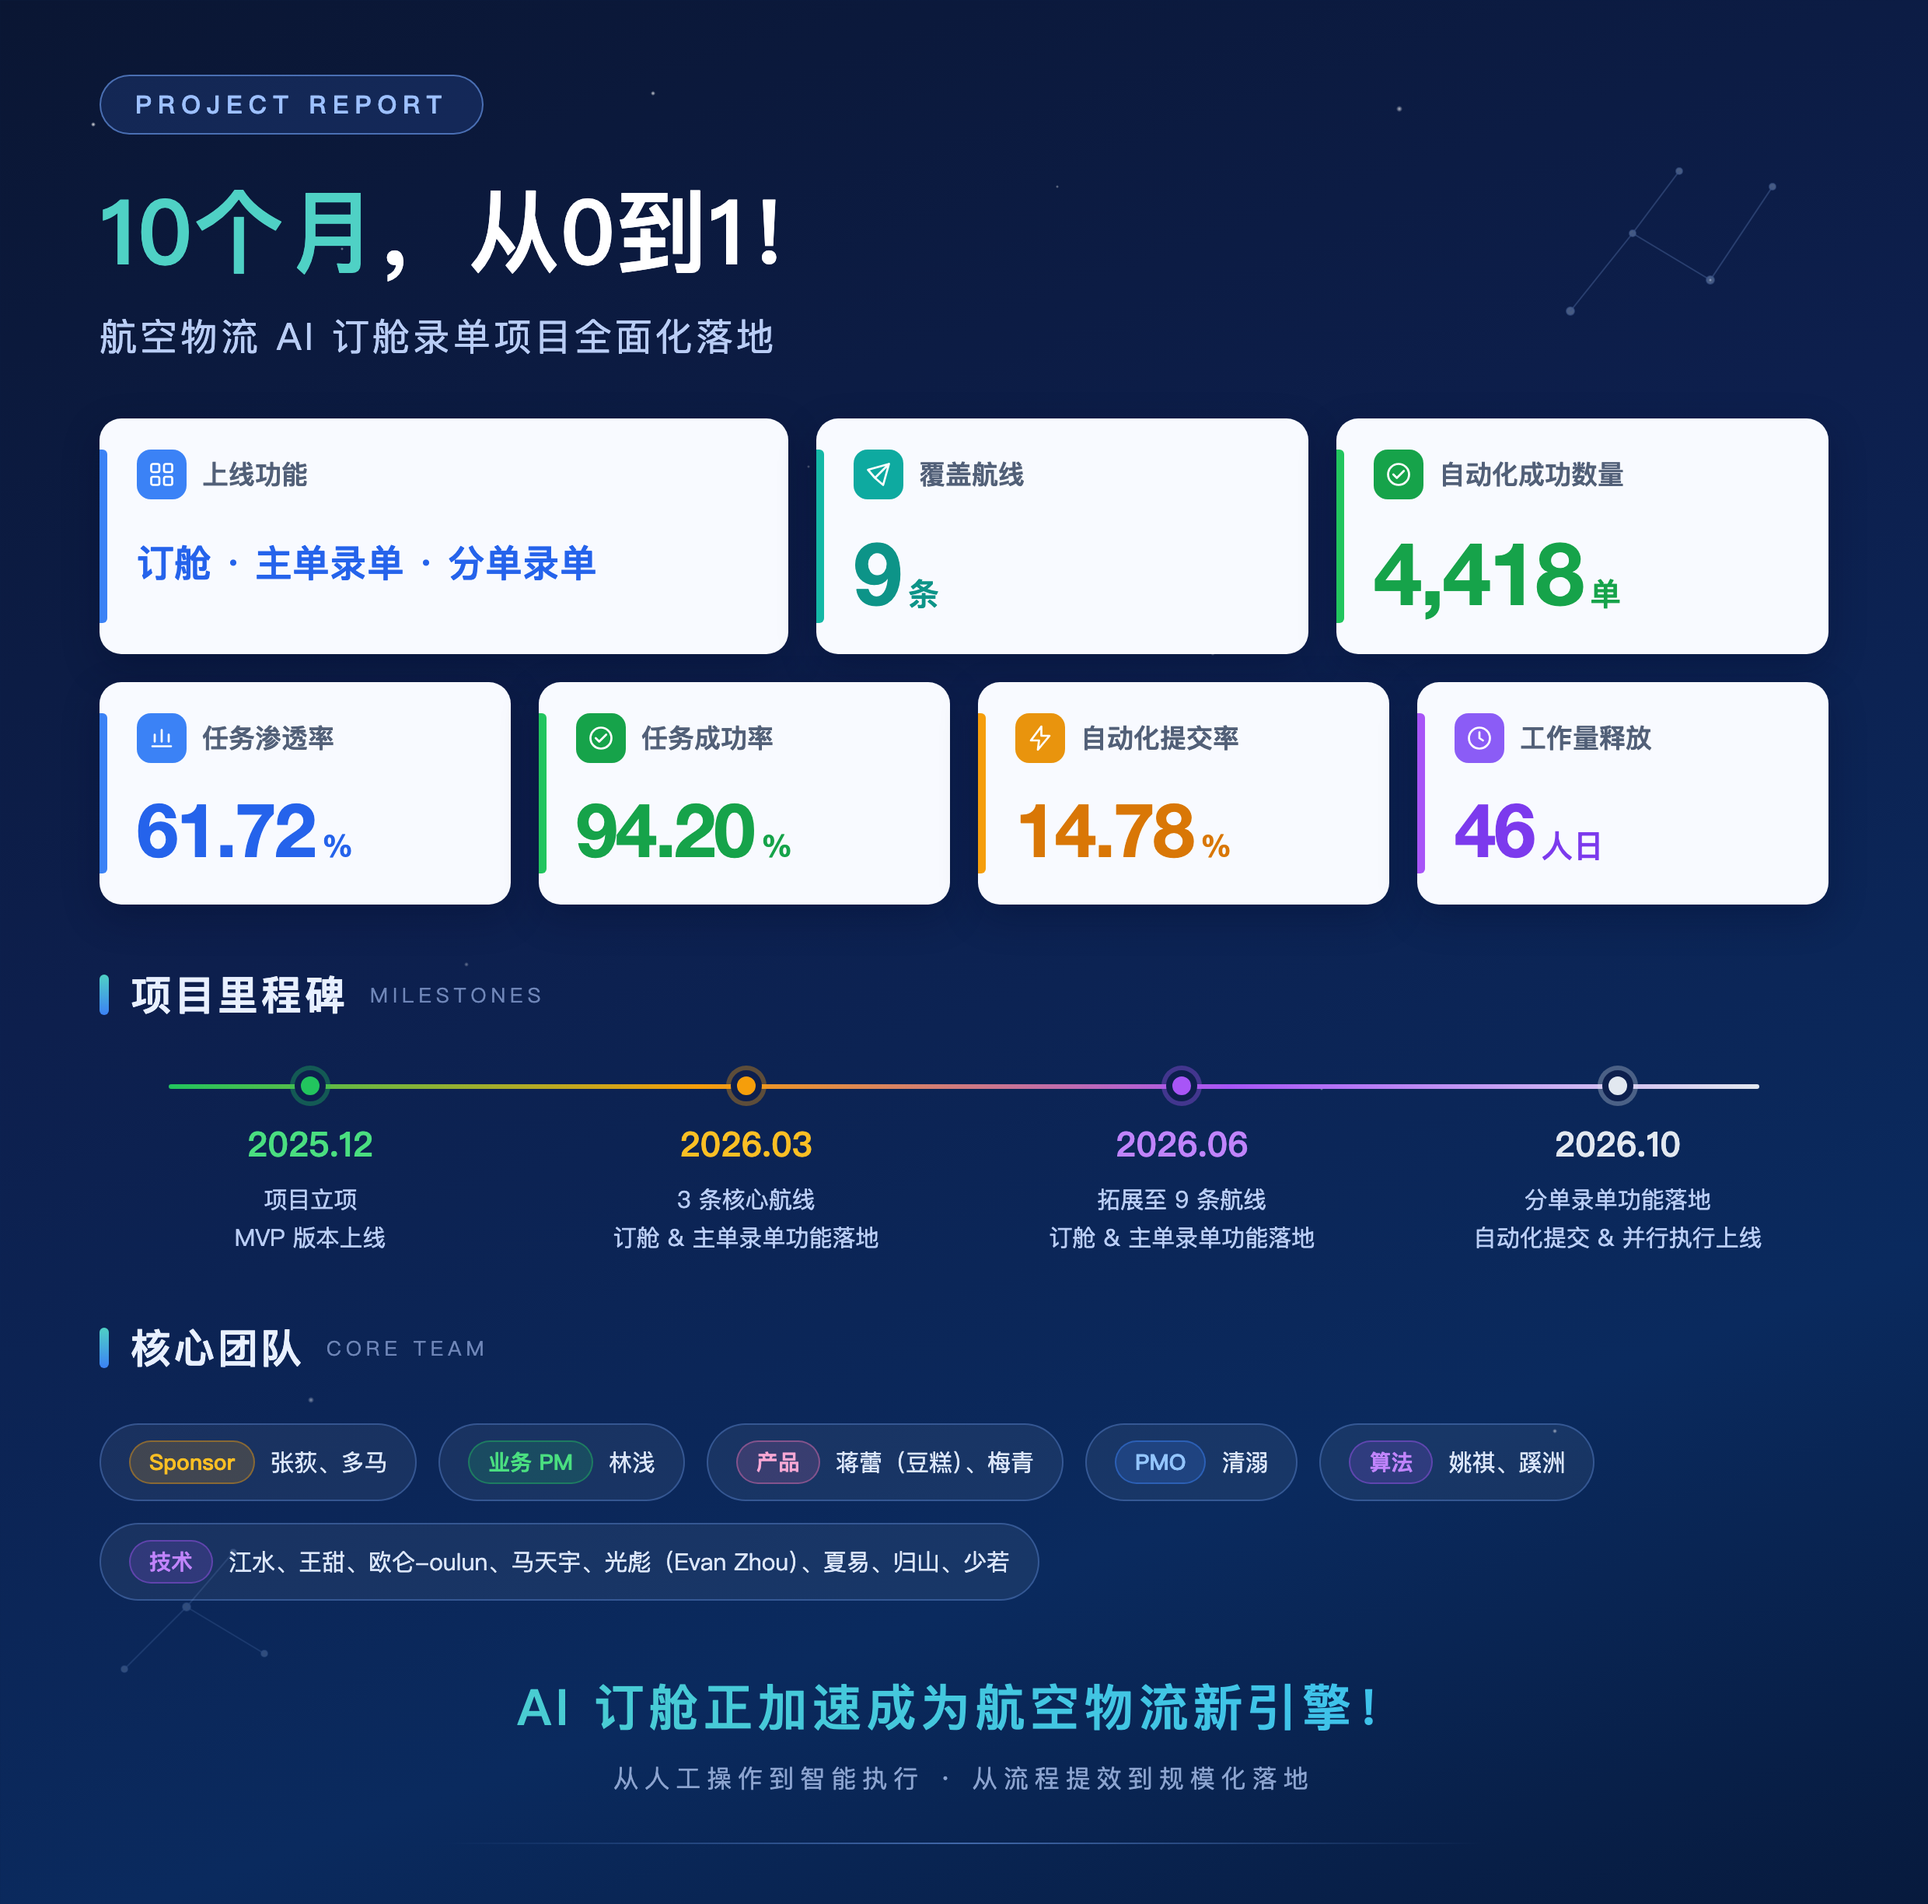
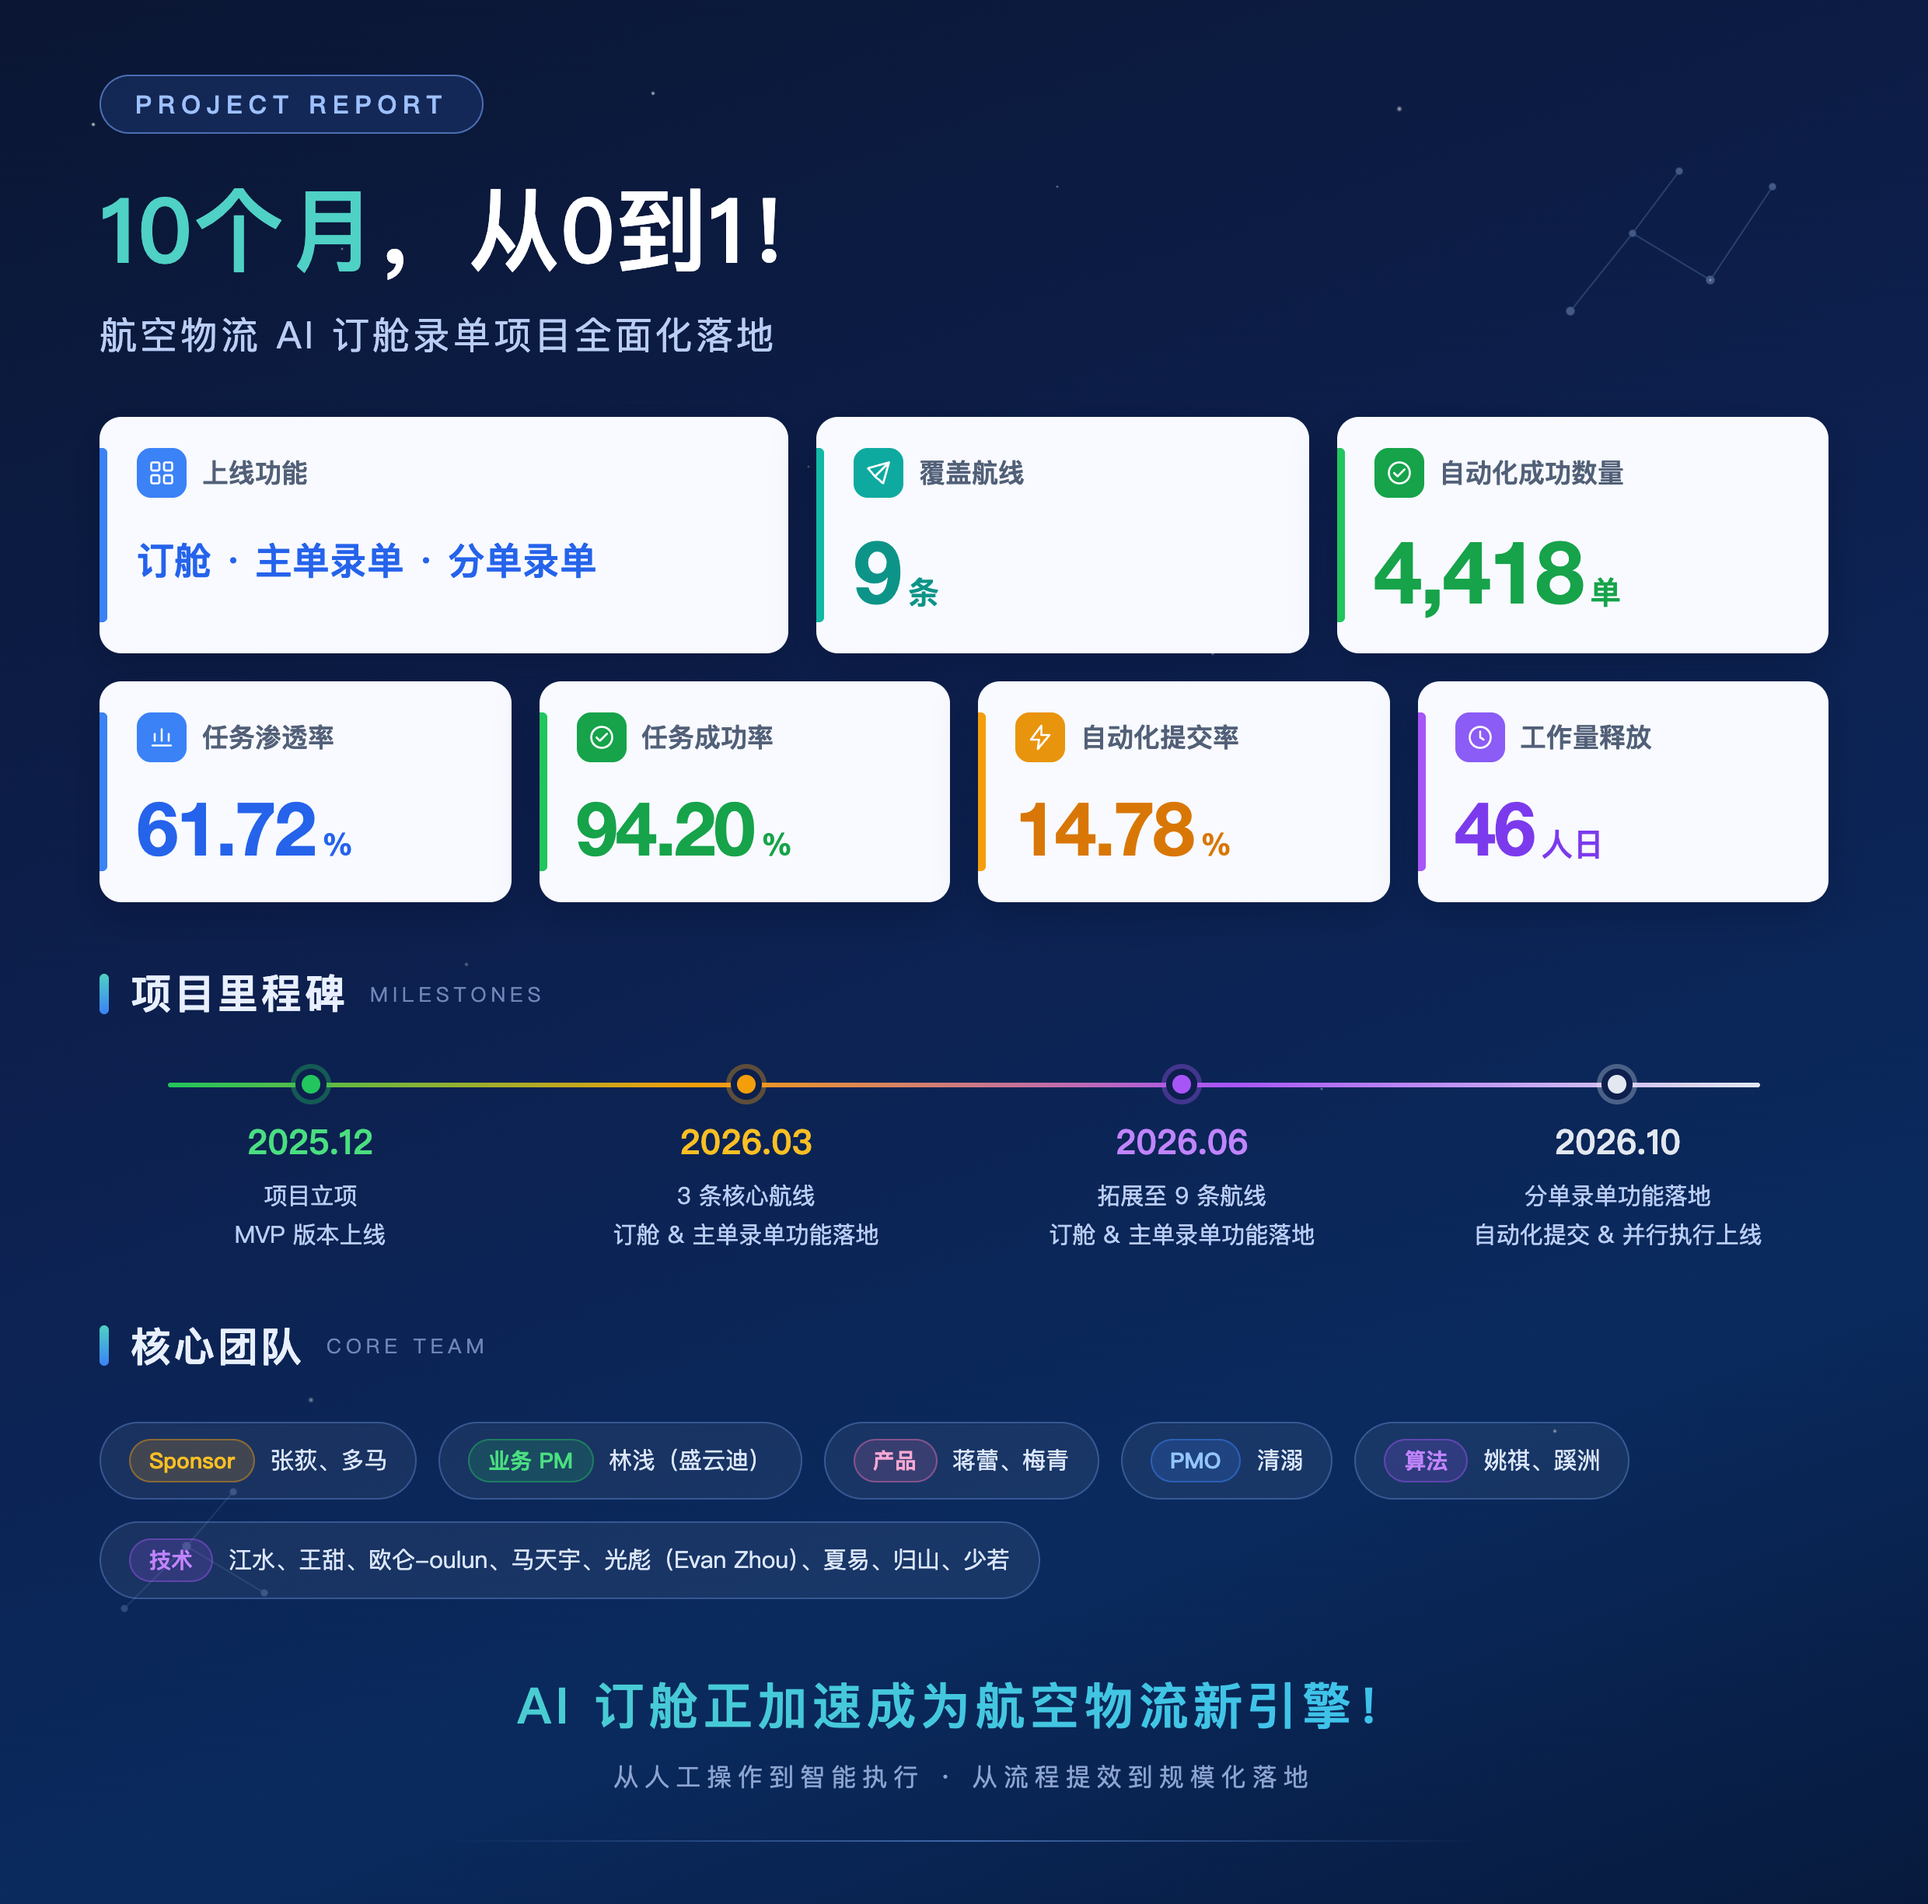
调整产品介绍阅读顺序并同步海报署名，完善规模化成果展示

diff --git a/index.html b/index.html
@@ -36,6 +36,7 @@
 .hero .eyebrow{font-family:"SFMono-Regular",Consolas,"PingFang SC",sans-serif;font-size:11px;letter-spacing:1px;font-weight:500}.hero-copy,.process-overview{min-width:0}.intro-block+.intro-block{margin-top:19px}.intro-block h2{font-size:13px;color:var(--ink);font-weight:650;margin:0 0 7px}.intro-block .lead{font-size:14px;line-height:1.9}.process-overview{padding:24px 22px 16px;border:1px solid var(--line);border-radius:14px;background:#f4f8fd;box-shadow:0 12px 30px #10284d06}.process-kicker{font:10px "SFMono-Regular",Consolas,monospace;letter-spacing:1px;color:var(--cyan)}.process-heading h2{font-size:21px;letter-spacing:-.4px;line-height:1.5;margin:10px 0 7px}.process-heading p{font-size:12px;line-height:1.8;color:var(--muted);margin:0}.process-stages{display:flex;align-items:center;justify-content:space-between;gap:3px;margin:20px 0 16px;font-size:11px;white-space:nowrap}.process-stages span{padding:7px 4px;border-radius:5px;color:var(--muted)}.process-stages span.active{background:#e1ecff;color:var(--blue);font-weight:650}.process-stages b{font-weight:400;color:#8aabc9}.process-image-button{display:block;width:100%;padding:0;border:1px solid var(--line);border-radius:8px;overflow:hidden;background:#fff;text-align:left;color:var(--blue)}.process-image-button img{display:block;width:100%;height:auto}.process-image-caption{display:flex;align-items:center;justify-content:space-between;gap:12px;padding:12px;font-size:10px;line-height:1.7;border-top:1px solid #e6edf7;background:#fafdff}.process-image-caption i{display:inline-block;width:6px;height:6px;border-radius:50%;background:var(--blue);margin-right:6px}.process-dialog{width:1360px;max-width:94vw}.process-dialog .dialog-head{gap:16px;flex-wrap:wrap}.process-dialog-actions{display:flex;gap:8px}.process-dialog-scroll{max-height:72vh;overflow:auto;overscroll-behavior:contain;padding:14px;background:#f8fbff}.process-dialog-scroll img{width:100%;max-width:none;height:auto}.process-dialog-scroll.detail-view img{width:1600px}.process-dialog-note{font-size:11px;line-height:1.8;color:var(--muted);padding:10px 18px;margin:0;border-top:1px solid var(--line)}.process-dialog-note a{color:var(--blue)}
 @media(max-width:800px){.intro-block .lead{max-width:680px}.process-overview{padding:24px}.process-stages{justify-content:flex-start;gap:14px;font-size:12px}.process-stages span{padding:8px 10px}.process-heading h2{font-size:22px}}
 @media(max-width:480px){.hero .eyebrow{font-size:10px;letter-spacing:.6px}.intro-block .lead{font-size:13px}.intro-block h2{font-size:12px}.process-overview{padding:20px 14px 14px}.process-heading h2{font-size:18px}.process-heading p{font-size:11px}.process-stages{justify-content:space-between;gap:2px;font-size:10px;margin:17px 0 13px}.process-stages span{padding:7px 3px}.process-image-caption{font-size:9px;padding:10px 8px;gap:5px}.process-dialog .dialog-head{font-size:12px;padding:10px 12px;gap:9px}.process-dialog-note{font-size:10px;padding:10px 12px}.process-dialog-scroll{padding:8px}}
+@media(max-width:360px){.process-stages{gap:1px}.team-entry:not(.sponsor):not(.technical){padding-inline:10px}}
 @media(prefers-reduced-motion:reduce){html{scroll-behavior:auto}*{transition:none!important}}
 </style>
 </head>
@@ -57,6 +58,11 @@
 <div class="video-caption"><span>文件上传、AI 识别、任务管理与执行，全流程实录。</span><span>产品展示页面，不提供业务系统登录或实际订舱服务。</span></div>
 <p class="demo-data-note" id="demo-data-note"><svg viewBox="0 0 24 24" fill="none" stroke="currentColor" stroke-width="1.6" aria-hidden="true"><path d="m12 3 8 3v6c0 5-8 9-8 9s-8-4-8-9V6l8-3Z"/><path d="m8 12 3 3 5-6"/></svg><span><strong>演示数据说明</strong>：视频中的展示数据为脱敏后的模拟数据，仅用于 Demo 演示，不代表真实客户信息或实际业务交易。</span></p>
 </section>
+<section id="product" class="section" aria-labelledby="product-title">
+<div class="section-heading"><div><h2 id="product-title">产品介绍</h2><p>三项核心功能，覆盖订舱与主分单录入。</p></div></div>
+<div class="feature-grid"><article class="feature-item"><h3>智能订舱</h3><p>上传订舱表，AI 提取字段并执行订舱。</p></article><article class="feature-item"><h3>主单录单</h3><p>解析主单文件，校验后自动录入航司系统。</p></article><article class="feature-item"><h3>分单录单</h3><p>识别分单与舱单，关联主单并批量录入。</p></article></div>
+<div class="solution-overview"><div class="solution-heading"><h3>Agent 工作流</h3><div class="solution-chain" aria-label="任务处理流程"><span>人工上传文件</span><b aria-hidden="true">→</b><span>AI 解析校验</span><b aria-hidden="true">→</b><span>自动录入</span><b aria-hidden="true">→</b><span>人工处理异常</span></div></div><div class="solution-capabilities"><article><h4>批量并行 · 多航线路由</h4><p>并行执行批量任务，自动匹配多航线处理流程。</p></article><article><h4>全托管提交 · 异常校验提醒</h4><p>支持自动提交全托管，信息校验异常及时提醒。</p></article><article><h4>历史文件回溯 · 航线规则配置</h4><p>回溯历史上传文件，快捷配置航线解析与校验规则。</p></article></div></div>
+</section>
 <section id="background" class="section value-section" aria-labelledby="background-title">
 <div class="section-heading"><div><h2 id="background-title">产品价值总结</h2><p>解决航空货代的共性痛点，让自动化能力可复用、可扩展、可推广。</p></div></div>
 <div class="value-comparisons" aria-label="行业痛点与产品价值对照">
@@ -67,13 +73,8 @@
 </div>
 <aside class="commercial-value" aria-labelledby="commercial-title"><div class="commercial-heading"><span class="commercial-kicker">行业推广与产品化</span><h3 id="commercial-title">面向行业，<br>具备商业化潜力</h3><p>不只是服务一家企业，<br>而是形成可复制推广的行业解决方案。</p></div><div class="commercial-copy"><p class="commercial-thesis">订舱与录单不是某一家公司的特有需求，而是众多空运货代共同承担的基础工作。共性的业务链路，让产品具备向同类企业复制推广的适用基础。</p><p>通过复用共性处理能力、配置航线差异，扩展不必从零重建全部流程。经目标航司系统与企业流程适配验证后，可向更多航空货代公司复制推广，进一步封装为可对外售卖的产品化解决方案。</p></div></aside>
 </section>
-<section id="product" class="section" aria-labelledby="product-title">
-<div class="section-heading"><div><h2 id="product-title">产品介绍</h2><p>三项核心功能，覆盖订舱与主分单录入。</p></div></div>
-<div class="feature-grid"><article class="feature-item"><h3>智能订舱</h3><p>上传订舱表，AI 提取字段并执行订舱。</p></article><article class="feature-item"><h3>主单录单</h3><p>解析主单文件，校验后自动录入航司系统。</p></article><article class="feature-item"><h3>分单录单</h3><p>识别分单与舱单，关联主单并批量录入。</p></article></div>
-<div class="solution-overview"><div class="solution-heading"><h3>Agent 工作流</h3><div class="solution-chain" aria-label="任务处理流程"><span>人工上传文件</span><b aria-hidden="true">→</b><span>AI 解析校验</span><b aria-hidden="true">→</b><span>自动录入</span><b aria-hidden="true">→</b><span>人工处理异常</span></div></div><div class="solution-capabilities"><article><h4>批量并行 · 多航线路由</h4><p>并行执行批量任务，自动匹配多航线处理流程。</p></article><article><h4>全托管提交 · 异常校验提醒</h4><p>支持自动提交全托管，信息校验异常及时提醒。</p></article><article><h4>历史文件回溯 · 航线规则配置</h4><p>回溯历史上传文件，快捷配置航线解析与校验规则。</p></article></div></div>
-</section>
 <section id="results" class="section" aria-labelledby="results-title">
-<div class="section-heading"><div><h2 id="results-title">项目成果 · 10 个月，从 0 到 1。</h2><p>从三条核心航线验证闭环，到九条航线规模化落地。</p></div><a class="small-link" href="showcase/project-report.png" target="_blank" rel="noopener">查看高清海报 ↗</a></div>
+<div class="section-heading"><div><h2 id="results-title">项目成果 · 10 个月，从 0 到 1，从1到10。</h2><p>从三条核心航线验证闭环，到九条航线规模化落地。</p></div><a class="small-link" href="showcase/project-report.png" target="_blank" rel="noopener">查看高清海报 ↗</a></div>
 <div class="stats"><div class="stat"><div class="stat-label">覆盖航线</div><div class="stat-value">9<small>条</small></div></div><div class="stat"><div class="stat-label">累计自动化成功</div><div class="stat-value">4,418<small>单</small></div></div><div class="stat"><div class="stat-label">任务成功率</div><div class="stat-value">94.20<small>%</small></div></div><div class="stat"><div class="stat-label">节省工作量</div><div class="stat-value">≈46<small>人日</small></div></div></div>
 <p class="stats-note">以上为项目结项成果口径；成功率、渗透率与提交率采用结项文档近三周口径。4,418 单 × 5 分钟 ÷ 60 ≈ 368.2 小时 ÷ 8 ≈ 46 人日，相当于 1 人干 46 个工作日。</p>
 <div class="outcomes"><button type="button" class="poster-button" id="poster-open" aria-label="放大查看完整项目成果海报"><img src="showcase/project-report.png" alt="AI 订舱录单项目成果海报：三项能力、九条航线、4,418 单成功任务，以及从 2025 年 12 月到 2026 年 10 月的里程碑与团队信息" width="2480" height="2448" loading="lazy"><span class="zoom">放大查看 ↗</span></button></div>
